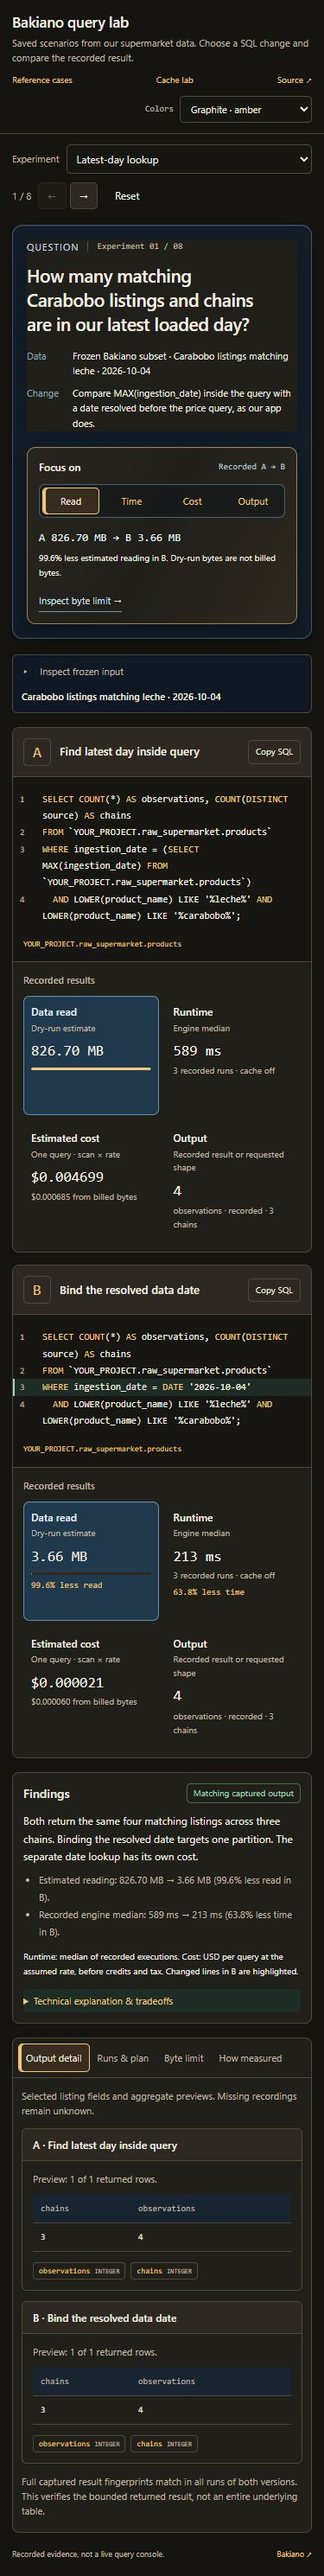
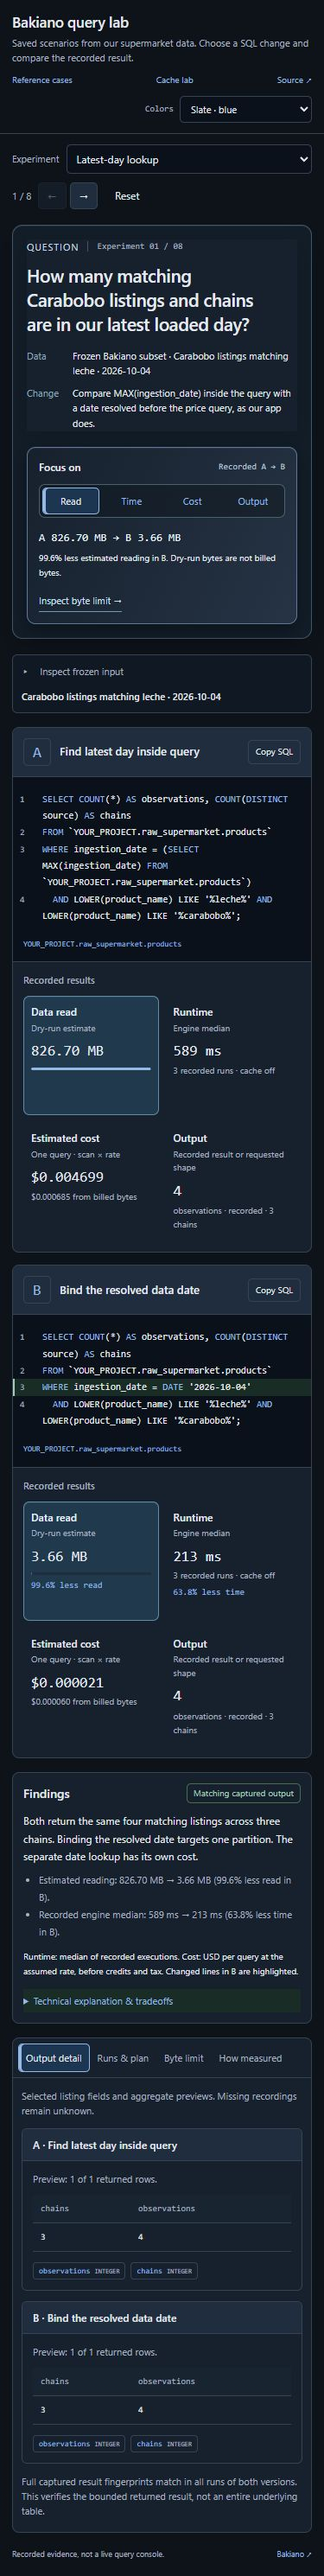
feat(lab): use dim blue and graphite palettes

diff --git a/demo/palette.css b/demo/palette.css
@@ -1,28 +1,28 @@
-/* Shared lab palettes. Hue changes emphasis; outcome colors retain their meaning. */
+/* Dim blue and neutral lab palettes. Outcome colors retain their meaning. */
 :root {
-  --bg:#151411; --panel:#211f1a; --surface:#211f1a; --raised:#2d2922;
-  --line:#4f473a; --text:#f4eee3; --muted:#c0b7a7;
-  --accent:#f3c77d; --accent-soft:#382d1c; --input:#171613;
-  --mint:#9ed8b7; --success-surface:#1d2d25;
-  --amber:#f2cf87; --warning-surface:#352b1c;
-  --red:#f1a2a4; --danger-surface:#382326;
+  --bg:#0e131a; --panel:#17212e; --surface:#17212e; --raised:#202d3e;
+  --line:#354354; --text:#e5e9f0; --muted:#a8b2c0;
+  --accent:#92b9e8; --accent-soft:#1c3550; --input:#0b111b;
+  --mint:#a1ccb7; --success-surface:#192c25;
+  --amber:#d7c094; --warning-surface:#302a20;
+  --red:#d99da6; --danger-surface:#30232b;
   --blue:var(--accent); --lime:var(--mint); --orange:var(--amber);
 }
-:root[data-lab-palette="cyan"] {
-  --bg:#10191b; --panel:#182326; --surface:#182326; --raised:#203034;
-  --line:#43565a; --text:#e7f2f1; --muted:#afc3c3;
-  --accent:#8ddbd8; --accent-soft:#1e3e40; --input:#101b1e;
-  --mint:#addba9; --success-surface:#203126;
-  --amber:#edc791; --warning-surface:#352c20;
-  --red:#eaa5ae; --danger-surface:#35232a;
+:root[data-lab-palette="graphite"] {
+  --bg:#111315; --panel:#1a1e22; --surface:#1a1e22; --raised:#252b31;
+  --line:#3c454f; --text:#e7e9ed; --muted:#adb4be;
+  --accent:#aec1d8; --accent-soft:#29343f; --input:#0e1115;
+  --mint:#aac9bb; --success-surface:#202b26;
+  --amber:#d3c3a0; --warning-surface:#302c23;
+  --red:#d5a3ac; --danger-surface:#2e2429;
 }
-:root[data-lab-palette="lilac"] {
-  --bg:#17141e; --panel:#241f2c; --surface:#241f2c; --raised:#302939;
-  --line:#554660; --text:#f0eaf5; --muted:#c3b7ce;
-  --accent:#cbb1f4; --accent-soft:#3b2b50; --input:#191420;
-  --mint:#abe0c0; --success-surface:#203129;
-  --amber:#f0cc96; --warning-surface:#352d23;
-  --red:#f0a3b3; --danger-surface:#382430;
+:root[data-lab-palette="midnight"] {
+  --bg:#090e15; --panel:#111a27; --surface:#111a27; --raised:#1a2637;
+  --line:#2f3b4c; --text:#dce3ec; --muted:#9faec0;
+  --accent:#8daadd; --accent-soft:#1b2c45; --input:#080d15;
+  --mint:#9ac3b0; --success-surface:#14251f;
+  --amber:#ccb996; --warning-surface:#2a261e;
+  --red:#d098a5; --danger-surface:#2a1e27;
 }
 body { background:var(--bg); color:var(--text); }
 a,summary { color:var(--accent); }
@@ -62,7 +62,7 @@ input[type=range] { accent-color:var(--accent); }
 #quick-cases button { background:var(--raised); border-color:var(--line); color:var(--text); }
 .selection-detail { background:var(--input); border-color:var(--line); }
 .source-key,.output-url,.output-time,.count,.journal-panel summary,#journal li { color:var(--muted); }
-.technique-panel { background:var(--success-surface); border-color:var(--line); border-top-color:var(--mint); }
+.technique-panel { background:var(--panel); border-color:var(--line); border-top-color:var(--accent); }
 .output-panel { background:var(--panel); border-color:var(--line); border-top-color:var(--accent); }
 .output-panel .eyebrow { color:var(--accent); }
 .source-row.selected,.output-row.selected,.chain-record[aria-pressed=true] { background:var(--accent-soft); border-color:var(--accent); box-shadow:inset 3px 0 var(--accent); }
@@ -78,10 +78,11 @@ input[type=range] { accent-color:var(--accent); }
 .scan-track rect { fill:var(--accent); }
 .source-meta,.output-meta,.comparison-titles,.comparison-titles>div:last-child,.comparison-table th,.comparison-table td,.comparison-note,th,td { border-color:var(--line); }
 .comparison-table thead { color:var(--muted); }
-.comparison-titles>div:last-child,.comparison-table tr.difference,.explanation,.matched-listings button,.identity-card,.chain-coverage .covered {
+.comparison-table tr.difference,.explanation,.matched-listings button,.identity-card,.chain-coverage .covered {
   background:var(--success-surface); border-color:color-mix(in srgb,var(--mint) 40%,var(--line)); color:var(--text);
 }
 .explanation { border-left-color:var(--mint); }
+.comparison-titles>div:last-child { background:var(--raised); border-color:var(--line); }
 .identity-card[aria-pressed=true] { background:var(--success-surface); border-color:var(--mint); box-shadow:inset 3px 0 var(--mint); }
 .identity-chips>span { background:var(--panel); border-color:var(--line); }
 .identity-card-top,.identity-chips code,.identity-members,.enrichment-table .field-same td,.result-sets>div:last-child span,.chain-coverage .covered { color:var(--mint); }

diff --git a/demo/palette.js b/demo/palette.js
@@ -1,7 +1,7 @@
-const palettes=[['amber','Graphite · amber'],['cyan','Slate · cyan'],['lilac','Ink · lilac']];
-const key='bakiano.lab.palette.v1';
-let selected='amber';
-try { const saved=localStorage.getItem(key); if(palettes.some(([id])=>id===saved))selected=saved; } catch { /* Storage may be unavailable; the default remains usable. */ }
+const palettes=[['slate','Slate · blue'],['graphite','Graphite · grey'],['midnight','Midnight · blue']];
+const key='bakiano.lab.palette.v2';
+let selected='slate';
+try { const saved=localStorage.getItem(key); if(palettes.some(([id])=>id===saved))selected=saved; } catch { /* The default remains usable when storage is blocked. */ }
 document.documentElement.dataset.labPalette=selected;
 const target=document.querySelector('.app-header nav,.top-right,.wrap>nav .row');
 if(target && !document.querySelector('[data-lab-palette-control]')) {

diff --git a/docs/palettes.md b/docs/palettes.md
@@ -1,6 +1,6 @@
 # Lab color palettes
 
-Use **Colors** in the header to try three directions: Graphite / amber, Slate / cyan and Ink / lilac. Graphite / amber is the initial default. The choice is saved in this lab's browser storage; storage failures still leave the selector usable.
+Use **Colors** in the header to try three directions: Slate / blue, Graphite / grey and Midnight / blue. Slate / blue is the initial default. The choice is saved in this lab's browser storage; storage failures still leave the selector usable.
 
 Palette changes only update CSS tokens. They do not rerun an experiment, change a dataset or submit a model/cloud request. All layouts and evidence remain available.
 

diff --git a/README.md b/README.md
@@ -12,7 +12,7 @@ Use the floating **Focus on** controls beside the question to highlight reading,
 
 ![Two query-first A/B blocks with recorded measurements and findings underneath.](docs/images/scan-lab.jpg)
 
-Use **Colors** in the header to try Graphite / amber, Slate / cyan or Ink / lilac. The selection is saved locally and does not rerun queries. Outcome colors retain their meaning. [Palette controls](docs/palettes.md).
+Use **Colors** in the header to try Slate / blue, Graphite / grey or Midnight / blue. The selection is saved locally and does not rerun queries. Outcome colors retain their meaning. [Palette controls](docs/palettes.md).
 
 ## Try it without GCP
 
